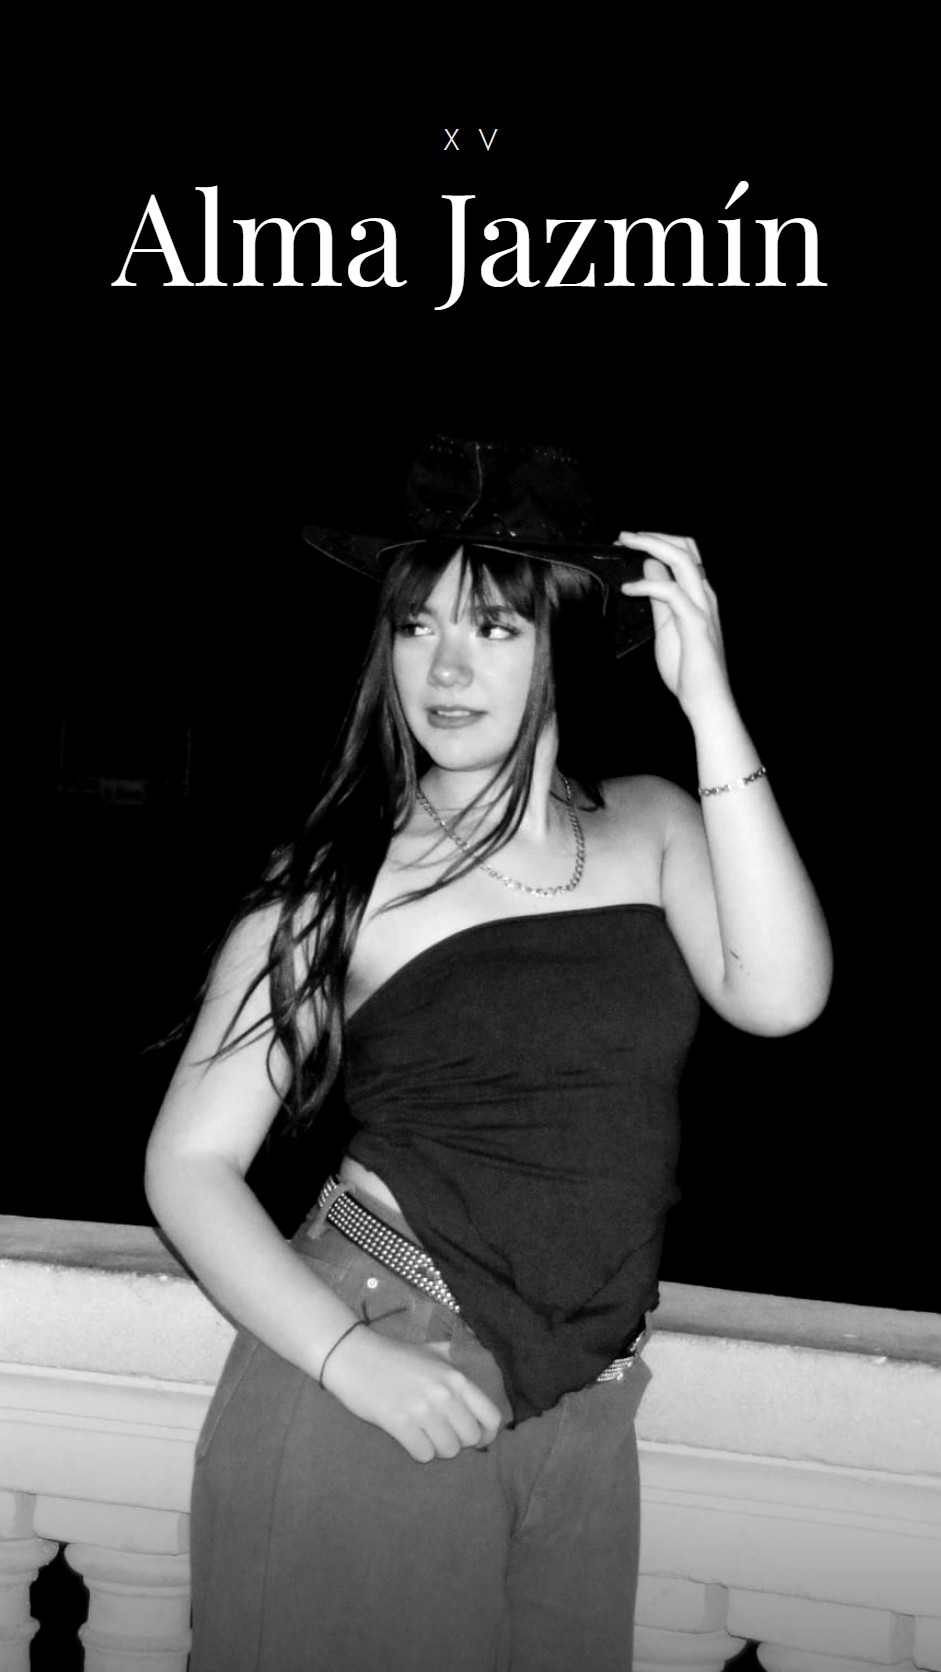
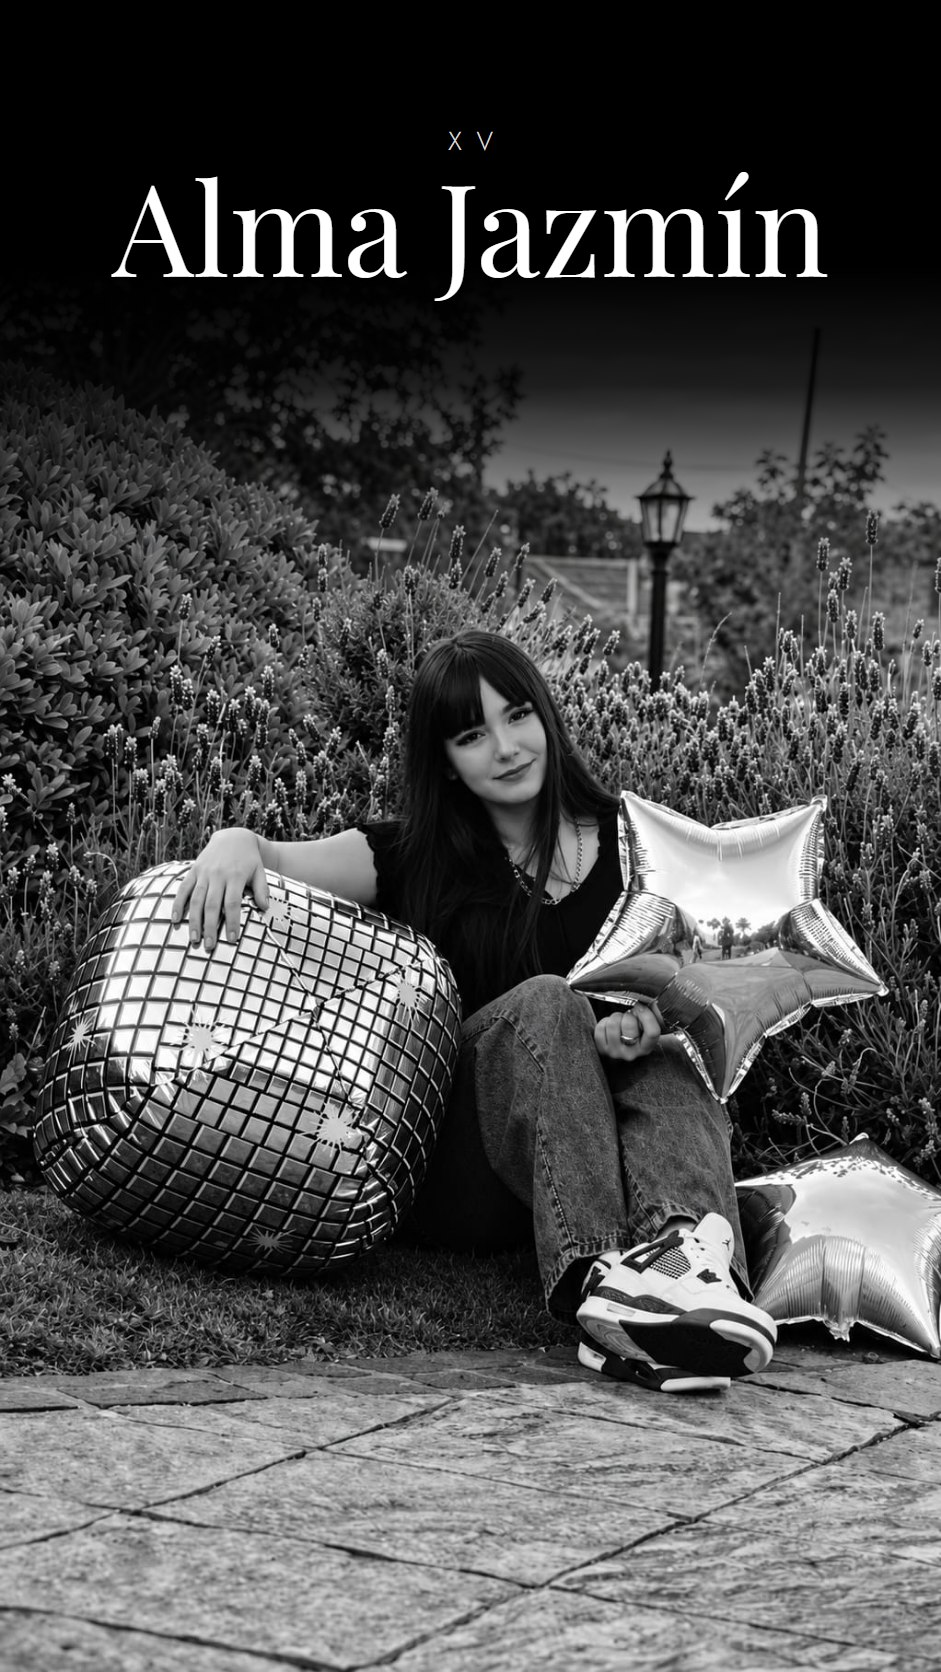
Nueva portada y colores reservados en el dress code

diff --git a/styles.css b/styles.css
@@ -70,6 +70,7 @@ main { width: min(100%, 942px); margin: 0 auto; background: #000; box-shadow: 0 
 .location-modal__actions span { font-size: 34px; font-family: Arial, sans-serif; letter-spacing: 0; }
 .location-copy-status { display: block; min-height: 24px; margin-top: 26px; color: #3188ff; font-size: clamp(11px, 2vw, 17px); letter-spacing: .22em; }
 .dress-code-panel { background: #000; }
+.dress-code-note { position: absolute; z-index: 2; top: 51.6%; left: 8%; width: 52%; margin: 0; color: #e6e9f0; font-family: Jost, Arial, sans-serif; font-weight: 300; font-size: clamp(8px, 2.1vw, 18px); line-height: 1.7; letter-spacing: .14em; text-transform: uppercase; text-shadow: 0 0 10px rgb(0 0 0 / .8); }
 .location-grid-effect { position: absolute; z-index: 2; inset: -3%; pointer-events: none; background: radial-gradient(circle, rgb(255 255 255 / .58) 0 1px, transparent 1.7px) 0 0 / clamp(34px, 5vw, 48px) clamp(34px, 5vw, 48px), linear-gradient(rgb(255 255 255 / .055) 1px, transparent 1px) 0 0 / clamp(68px, 10vw, 96px) clamp(68px, 10vw, 96px), linear-gradient(90deg, rgb(255 255 255 / .05) 1px, transparent 1px) 0 0 / clamp(68px, 10vw, 96px) clamp(68px, 10vw, 96px); mix-blend-mode: screen; opacity: .42; animation: locationGridGlow 3.8s ease-in-out infinite alternate; }
 .location-light-effect { position: absolute; z-index: 3; inset: -14% -18%; pointer-events: none; background: linear-gradient(104deg, transparent 0 35%, rgb(255 255 255 / .2) 44%, transparent 55%), linear-gradient(76deg, transparent 0 53%, rgb(37 93 255 / .28) 62%, transparent 73%), radial-gradient(ellipse at 72% 48%, rgb(37 93 255 / .2), transparent 30%); filter: blur(1px); mix-blend-mode: screen; opacity: .72; animation: locationLightSweep 4.6s ease-in-out infinite alternate; }
 .gallery-panel { position: relative; min-height: min(177.7vw, 1672px); overflow: hidden; background: radial-gradient(circle at 78% 24%, #0a1e62 0, #020714 22%, #000 61%); line-height: 1.2; }

diff --git a/index.html b/index.html
@@ -47,7 +47,7 @@
   </section>
   <main>
     <section class="panel cover" aria-label="Portada de los XV de Alma Jazmín">
-      <img src="assets/portada-alma.jpg" alt="XV de Alma Jazmín" width="941" height="1672" fetchpriority="high">
+      <img src="assets/portada-alma.jpg?v=2" alt="XV de Alma Jazmín" width="941" height="1672" fetchpriority="high">
     </section>
 
     <section class="guest-panel" aria-labelledby="guest-title">
@@ -116,6 +116,7 @@
 
     <section class="panel dress-code-panel" aria-label="Código de vestimenta elegante">
       <img src="assets/dress-code-alma.png" alt="Dress code: elegante" width="941" height="1672" loading="lazy" decoding="async">
+      <p class="dress-code-note">Se reserva el color<br>plateado, bordó, rojo y rosa</p>
     </section>
 
     <section class="gallery-panel" aria-label="Galería de fotos de Alma Jazmín">
